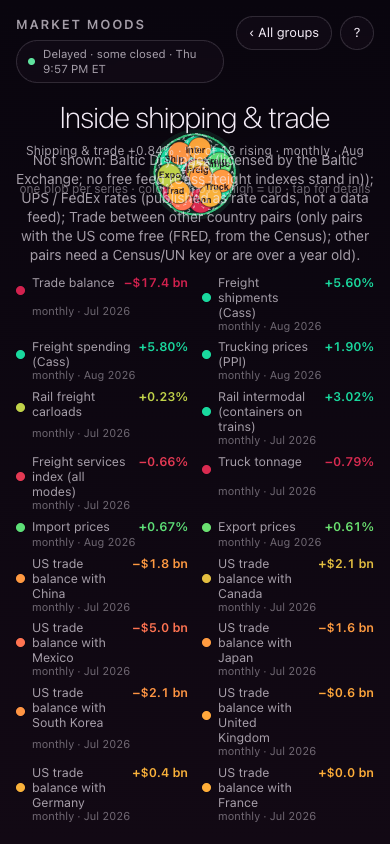
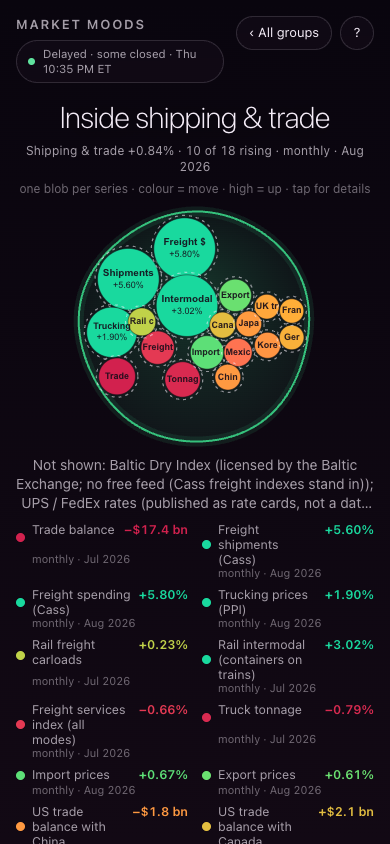
Panel r1 fixes (code 7, content 7, design 5): SSL fallback pinned to api.imf.org, failures cached per round, loop mode guard, Fed/ECB/BoJ in trillions, distinct gold/trade labels, phone inside-view keeps its stage
- fetch.py: unverified-cert retry only for api.imf.org; a failed CSV is cached so one IMF outage costs one retry set, not eight; unknown --x-open exits 2 (loop.sh guards its mode too); ECON_SCALE turns $ million/¥100m into trillions; crypto/Russia "not shown" lines no longer overclaim.
- check.js: bands in the new units + a BoJ band. economy.html: footer scrolls within 46dvh in a cell on phones, note clamps to 3 lines (tap for all), card names wrap. index.html: economy labels hug the row.
- selfcheck mutant RED (bis host in UNVERIFIED_OK); check.js 870, economy-check 448/0.

diff --git a/economy.html b/economy.html
@@ -76,6 +76,11 @@
   .panel .pLook:hover, .panel .pClose:hover { border-color: rgba(244, 236, 247, .32); }
   .panel [hidden] { display: none; }
   @media (max-width: 699px) {
+    /* a phone inside a 16-member group: the footer (note + members) must not eat the stage, so it scrolls within
+       its lower half and the "not shown" note clamps to three lines (tap it for the rest) */
+    body.incell footer { max-height: 46vh; max-height: 46dvh; overflow-y: auto; }
+    body.incell .notice { display: -webkit-box; -webkit-line-clamp: 3; -webkit-box-orient: vertical; overflow: hidden; cursor: pointer; }
+    body.incell .notice.full { -webkit-line-clamp: unset; display: block; }
     .panel { top: auto; left: 0; width: auto; max-height: 60vh; max-height: 60dvh; border-left: 0; border-top: 1px solid var(--line);
       border-radius: 18px 18px 0 0; box-shadow: 0 -10px 40px rgba(0, 0, 0, .45); transform: translateY(100%); }
     .panel.open { transform: none; }
@@ -113,7 +118,7 @@
     .readouts { gap: 5px; }
     .card { padding: 8px 5px 9px; border-radius: 12px; }
     .card .pct { font-size: 14px; }
-    .card .name { font-size: 10px; gap: 3px; }
+    .card .name { font-size: 10px; gap: 3px; white-space: normal; line-height: 1.15; }   /* "Central banks" wraps, never "Central ba…" */
     .card .chip { width: 7px; height: 7px; }
     .card .lvl { font-size: 9.5px; }
     .card .look { display: none; }
@@ -556,7 +561,7 @@
     const miss = ((data && data.missing) || []).filter(x => x.group === g.key);
     const nt = $("notice");
     nt.textContent = miss.length ? "Not shown: " + miss.map(x => `${x.name} (${x.why})`).join("; ") + "." : "";
-    nt.classList.toggle("on", !!miss.length);
+    nt.classList.toggle("on", !!miss.length); nt.classList.remove("full"); nt.onclick = () => nt.classList.toggle("full");
   }
   function openCell(key) {
     if (!G.some(g => g.key === key)) return false;

diff --git a/check.js b/check.js
@@ -274,9 +274,9 @@ ok(M.econSlow({ freq: "monthly" }) && M.econSlow({ freq: "weekly" }) && !M.econS
       ok(!(live && miss), `${key}: not both live and missing`);
     }
     // central-bank numbers come from a CSV with unit scales (ounces vs tonnes, USD vs local, trillions): a wrong scale is
-    // off by 1000x, so pin each to its real-world band (gold: US ~8,133 t, Germany ~3,350 t, China ~2,300 t; COFER ~$13 tn, USD ~57%)
+    // off by 1000x, so pin each to its real-world band (gold: US ~8,133 t, Germany ~3,350 t, China ~2,300 t; COFER ~$13 tn, USD ~57%; Fed/ECB in $/€ trillion, BoJ ¥ trillion)
     const band = { goldUSA: [7500, 8800], goldDEU: [3000, 3700], goldITA: [2200, 2700], goldFRA: [2200, 2700], goldCHN: [1800, 3500], goldIND: [600, 1200],
-      goldPOL: [300, 1200], goldTUR: [300, 1300], fxReserves: [8, 20], usdShare: [40, 75], fedAssets: [5e6, 9e6], ecbAssets: [4e6, 9e6],
+      goldPOL: [300, 1200], goldTUR: [300, 1300], fxReserves: [8, 20], usdShare: [40, 75], fedAssets: [5, 9], ecbAssets: [4, 9], bojAssets: [450, 950],
       boeAssets: [500, 1500], pbocAssets: [30000, 90000], snbAssets: [500, 1500] };
     for (const [key, [lo, hi]] of Object.entries(band)) {
       const m = all.find(x => x.key === key);

diff --git a/index.html b/index.html
@@ -709,7 +709,7 @@
         cols[n * 3] = L.col[0]; cols[n * 3 + 1] = L.col[1]; cols[n * 3 + 2] = L.col[2];
         n++;
       });
-      L.tagX = cx / aspect; L.tagY = isE && stacked ? bandE[0] - Math.min(wE * 0.36, baseR * 1.4 * 0.75) - 0.045 : low - 0.035;   // under the blob; a phone's economy row shares one baseline
+      L.tagX = cx / aspect; L.tagY = isE && stacked ? bandE[0] - Math.min(wE * 0.36, baseR * 1.4 * 0.75) - 0.022 : low - 0.035;   // 0.022: the label hugs the row (panel: "labels closer to blobs")   // under the blob; a phone's economy row shares one baseline
       top[isE ? 1 : 0] = Math.max(top[isE ? 1 : 0], L.hy + (L.hitR || 0) / 1.5);
     });
     // captions glide with small bobs and snap on a first sight or a big change (data just arrived)

diff --git a/fetch.py b/fetch.py
@@ -23,7 +23,7 @@ company's move from its previous official close, in basis points (0.01%), on tha
 
 usage: fetch.py [--out data/market.json] | fetch.py --companies | fetch.py --selfcheck
 """
-import csv, html, http.cookiejar, io, json, pathlib, re, ssl, sys, time, urllib.error, urllib.request
+import csv, html, http.cookiejar, io, json, pathlib, re, ssl, sys, time, urllib.error, urllib.parse, urllib.request
 from datetime import datetime, timedelta, timezone
 from zoneinfo import ZoneInfo
 
@@ -394,9 +394,9 @@ ECON = [
         ("tradeGE", "US trade balance with Germany", "t", "EXPGE:IMPGE", "bn", "$ million / month", "monthly"),
         ("tradeFR", "US trade balance with France", "t", "EXPFR:IMPFR", "bn", "$ million / month", "monthly")]),
     ("cbanks", "Central banks", "Central banks", [
-        ("fedAssets", "Fed holdings (balance sheet)", "f", "WALCL", "pct", "$ million held", "weekly"),
-        ("ecbAssets", "ECB holdings (balance sheet)", "f", "ECBASSETSW", "pct", "\u20ac million held", "weekly"),
-        ("bojAssets", "Bank of Japan holdings (balance sheet)", "f", "JPNASSETS", "pct", "\u00a5 100 million held", "monthly"),
+        ("fedAssets", "Fed holdings (balance sheet)", "f", "WALCL", "pct", "$ trillion held", "weekly"),
+        ("ecbAssets", "ECB holdings (balance sheet)", "f", "ECBASSETSW", "pct", "\u20ac trillion held", "weekly"),
+        ("bojAssets", "Bank of Japan holdings (balance sheet)", "f", "JPNASSETS", "pct", "\u00a5 trillion held", "monthly"),
         ("boeAssets", "Bank of England holdings (balance sheet)", "m", "bis:GB", "pct", "\u00a3 billion held", "quarterly"),
         ("pbocAssets", "People's Bank of China holdings (balance sheet)", "m", "bis:CN", "pct", "\u00a5 billion held", "quarterly"),
         ("snbAssets", "Swiss National Bank holdings (balance sheet)", "m", "bis:CH", "pct", "CHF billion held", "quarterly"),
@@ -411,12 +411,14 @@ ECON = [
         ("fxReserves", "World FX reserves (all central banks)", "m", "cofer:CI_T:NV_USD", "pct", "$ trillion", "quarterly"),
         ("usdShare", "US dollar share of FX reserves", "m", "cofer:CI_USD:SHRO_PT", "pct", "% of allocated reserves", "quarterly")]),
 ]
+# a feed's raw unit divided into the unit the page names (FRED: WALCL/ECBASSETSW in millions, JPNASSETS in 100 millions)
+ECON_SCALE = {"fedAssets": 1e6, "ecbAssets": 1e6, "bojAssets": 1e4}
 # things Clark asked for that no free keyless source carries: listed on the page, never faked
 ECON_SHORT = {"mortgage": "Mortgage", "cpi": "CPI", "unemp": "Unemp.", "payrolls": "Payrolls", "claims": "Claims",
               "sentiment": "Sentiment", "retail": "Retail", "spending": "Spending", "homes": "Homes", "dollar": "Dollar", "t3m": "3-month", "t5y": "5-year",
               "t10y": "10-year", "t30y": "30-year", "natgas": "Nat. gas", "heatoil": "Heating oil", "steel": "Steel",
               "aluminium": "Aluminium", "brent": "Brent", "wti": "WTI", "credit": "Credit", "cards": "Cards", "fedDebt": "Fed. debt",
-              "m1": "M1", "railCars": "Rail cars", "railBox": "Intermodal", "tsi": "Freight idx", "truckTons": "Tonnage", "imports": "Imports $", "exports": "Exports $", "tradeCH": "China", "tradeCA": "Canada", "tradeMX": "Mexico", "tradeJP": "Japan", "tradeKR": "S. Korea", "tradeUK": "UK", "tradeGE": "Germany", "tradeFR": "France", "goldUSA": "US", "goldDEU": "Germany", "goldITA": "Italy", "goldFRA": "France", "goldCHN": "China", "goldIND": "India", "goldPOL": "Poland", "goldTUR": "Turkey", "boeAssets": "BoE", "pbocAssets": "PBoC", "snbAssets": "SNB", "fxReserves": "FX reserves", "usdShare": "USD share",  "fedAssets": "Fed", "ecbAssets": "ECB", "bojAssets": "BoJ", "worldDebt": "World debt", "trade": "Trade", "cassShip": "Shipments", "cassSpend": "Freight $",
+              "m1": "M1", "railCars": "Rail cars", "railBox": "Intermodal", "tsi": "Freight idx", "truckTons": "Tonnage", "imports": "Import prices", "exports": "Export prices", "tradeCH": "China trade", "tradeCA": "Canada trade", "tradeMX": "Mexico trade", "tradeJP": "Japan trade", "tradeKR": "Korea trade", "tradeUK": "UK trade", "tradeGE": "Germany trade", "tradeFR": "France trade", "goldUSA": "US gold", "goldDEU": "German gold", "goldITA": "Italian gold", "goldFRA": "French gold", "goldCHN": "China gold", "goldIND": "India gold", "goldPOL": "Polish gold", "goldTUR": "Turkish gold", "boeAssets": "BoE", "pbocAssets": "PBoC", "snbAssets": "SNB", "fxReserves": "FX reserves", "usdShare": "USD share",  "fedAssets": "Fed", "ecbAssets": "ECB", "bojAssets": "BoJ", "worldDebt": "World debt", "trade": "Trade", "cassShip": "Shipments", "cassSpend": "Freight $",
               "trucking": "Trucking", "feeder": "Feeder", "oj": "OJ", "cattle": "Cattle", "rice": "Rice", "hogs": "Hogs"}     # a blob's label; the full name rides in the tooltip
 ECON_MISSING = [("metals", "Cobalt", "no free public price series (LME and Fastmarkets are paid; FRED has none)"),
                 ("energy", "Propane", "Yahoo lists Mont Belvieu propane (B0=F) but it printed once in 5 days: too thin for a move"),
@@ -424,8 +426,8 @@ ECON_MISSING = [("metals", "Cobalt", "no free public price series (LME and Fastm
                 ("shipping", "Baltic Dry Index", "licensed by the Baltic Exchange; no free feed (Cass freight indexes stand in)"),
                 ("shipping", "UPS / FedEx rates", "published as rate cards, not a data feed"),
                 ("shipping", "Trade between other country pairs", "only pairs with the US come free (FRED, from the Census); other pairs need a Census/UN key or are over a year old"),
-                ("cbanks", "Reserves reported by Russia and a few others", "not every central bank reports every month to the IMF: Russia's last gold report is months old, so it is left out rather than shown stale"),
-                ("cbanks", "Central-bank crypto holdings", "no central bank reports holding any; the only figures are one-off third-party estimates of government wallets (CoinGecko lists China ~190,000 BTC, Bhutan ~10,800) with no history to measure a move from")]
+                ("cbanks", "Russia's reserves", "Russia reports its gold and reserves to the IMF months late, so its figure is left out rather than shown as this month's"),
+                ("cbanks", "Central-bank crypto holdings", "no central bank publishes a crypto reserve series; the only figures are one-off third-party estimates of government wallets, with no history to measure a move from")]
 
 def parse_fred(text):
     """[(date 'YYYY-MM-DD', value)] from a fredgraph.csv; FRED's '.' (no reading) rows are dropped."""
@@ -508,16 +510,21 @@ def get_imf(spec):
 # swapped file is the only risk; every value is range-checked (check.js) and the page names the source. Upgrade: pin the
 # IMF intermediate cert, or fetch via DBnomics' mirror (a year behind).
 _csv_cache = {}
+UNVERIFIED_OK = {"api.imf.org"}      # the ONE host with the broken chain; everything else must verify
 def get_csv(url, accept="text/csv"):
-    if url in _csv_cache: return _csv_cache[url]
+    if url in _csv_cache:               # a failure is cached too: one outage costs one retry set per round, not one per member
+        if isinstance(_csv_cache[url], Exception): raise _csv_cache[url]
+        return _csv_cache[url]
+    host = urllib.parse.urlparse(url).hostname
     def call():
         req = urllib.request.Request(url, headers={"User-Agent": "Mozilla/5.0 market-moods", "Accept": accept})
         try: r = urllib.request.urlopen(req, timeout=60)
         except urllib.error.URLError as e:
-            if not isinstance(e.reason, ssl.SSLCertVerificationError): raise
+            if host not in UNVERIFIED_OK or not isinstance(e.reason, ssl.SSLCertVerificationError): raise
             r = urllib.request.urlopen(req, timeout=60, context=ssl._create_unverified_context())
         with r: return list(csv.DictReader(io.StringIO(r.read().decode("utf-8-sig"))))
-    _csv_cache[url] = _retry(call)
+    try: _csv_cache[url] = _retry(call)
+    except Exception as e: _csv_cache[url] = e; raise
     return _csv_cache[url]
 
 OZ_PER_TONNE = 32150.7466
@@ -589,7 +596,8 @@ def build_economy(prev=None):
                 elif spec[2] == "t":
                     mem.append(econ_fred(spec, get_trade(spec[3]), "FRED (Census data): exports minus imports, " + spec[3]))
                 else:
-                    mem.append(econ_fred(spec, get_fred(spec[3])))
+                    rows_ = get_fred(spec[3]); d_ = ECON_SCALE.get(spec[0])
+                    mem.append(econ_fred(spec, [(t, v / d_) for t, v in rows_] if d_ else rows_))
             except Exception as e:      # one dead series never blocks the rest, and is never faked
                 print(f"economy {spec[1]} failed: {e}", file=sys.stderr)
                 if spec[0] in old:      # keep its last real reading: it still carries its own as-of date, so the page
@@ -680,6 +688,9 @@ def selfcheck():
     imf = {"values": {"D": {"W": {"2023": 90.8, "2024": 92, "2025": 93.9, "2026": 95.3, "2027": 97.2}}}}
     assert parse_imf(imf, "D", "W", 2026) == [("2023-01-01", 90.8), ("2024-01-01", 92.0), ("2025-01-01", 93.9)]
     # every ECON spec has a known source and rhythm (a typo'd "q" would silently land in the FRED branch)
+    specs = {s[0]: s for _, _, _, sp in ECON for s in sp}
+    assert all(k in specs and "trillion" in specs[k][5] for k in ECON_SCALE), "every scaled series names its scaled unit"
+    assert urllib.parse.urlparse(IMF_SDMX).hostname in UNVERIFIED_OK and "stats.bis.org" not in UNVERIFIED_OK
     assert all(s[2] in "yfimt" and s[6] in ("5min", "weekly", "monthly", "quarterly", "yearly") for _, _, _, sp in ECON for s in sp)
     # economy: parse_fred drops '.' rows; a member is last-vs-the-close-before, dated by its own reading
     rows = parse_fred("observation_date,X\n2026-06-01,10\n2026-07-01,.\n2026-08-01,12.5\n")
@@ -735,6 +746,8 @@ if __name__ == "__main__":
         sys.exit(0 if market_open() else 1)
     if "--econ-open" in sys.argv:
         sys.exit(0 if econ_open() else 1)
+    if any(a.startswith("--") and a.endswith("-open") for a in sys.argv):    # a typo'd mode must not fall through to a full fetch
+        print(f"fetch.py: unknown mode {sys.argv[1:]} (market-open | econ-open)", file=sys.stderr); sys.exit(2)
     if "--companies" in sys.argv:
         here = pathlib.Path(__file__).parent / "data"
         i = sys.argv.index("--companies")
